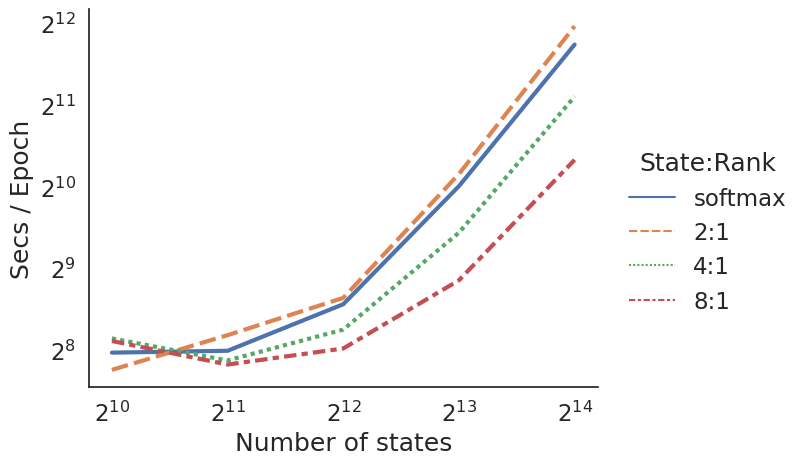
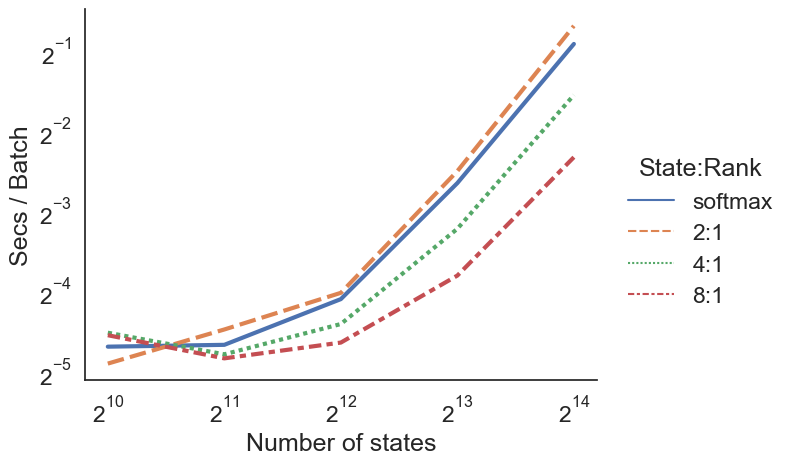
overleaf sync

diff --git a/main.tex b/main.tex
@@ -477,7 +477,7 @@ and the number of features is varied.}
 \end{subfigure}
 \caption{
 \label{fig:hmm-ppl-features-dropout}
-Validation perplexities on \textsc{Ptb} versus model scale, as well as speed in seconds per epoch.
+Validation perplexities on \textsc{Ptb} versus model scale, as well as speed in seconds per batch.
 }
 \end{figure}
 Our main experimental result is that the low-rank models produce similar results as our baselines.
